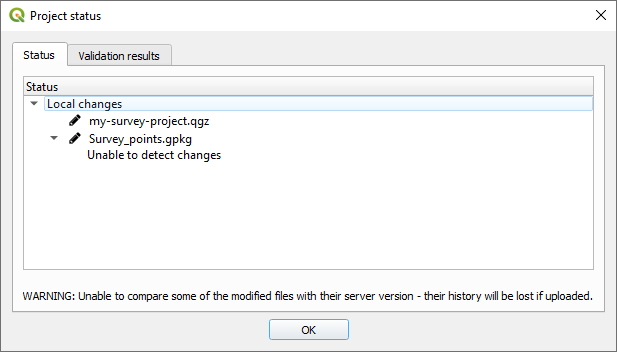
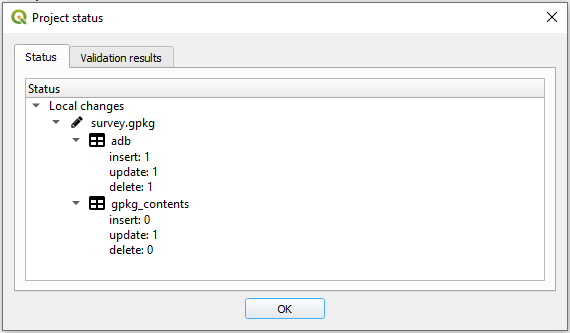
MD review

Changed region(s): [[0.0, 0.0, 1.0, 1.0]]

diff --git a/www/pages/plugin-sync-project.md b/www/pages/plugin-sync-project.md
@@ -4,20 +4,31 @@ title: Synchronising project and data
 permalink: /plugin-sync-project
 ---
 
-You can make changes to your project and data. The changes can be synchronised back to Mergin. The plugin also presents you with an option to see which layers and files have been changed.
+## Status
 
-To synchronise the data back to Mergin:
+It is recommended to run the project status after changing your layers and project.
 
-1. Select the Mergin project status from the toolbar or alternatively right-click on the project from the list on your Mergin projects under the Browser panel in QGIS and select **Status**:
+To see the status of your project and data:
 
-	<p align="center"><img src="../images/qgis-plugin/sync-status.png"></p>
+1. From the Mergin plugin, click on **Status** :
 
-2. A new window should appear listing the pending changes to be synchronised:
+<p align="center"><img src="../images/qgis-plugin/sync-status-toolbar.png"></p>
 
-	<p align="center"><img src="../images/qgis-plugin/sync-status-2.png"></p>
-<p align="center"><img src="../images/qgis-plugin/clone.png"></p>
-    **Note:** In addition to the status of changed files, you can also see detailed changes to your survey layer(s) (GeoPackage) i.e. the number of added, modified and deleted features.
+This will help getting a list of pending changes and also see any warnings or validations of your project. The warnings are related to restructuring of a GeoPackage layer (adding/removing a field or addding/removing a layer in a Geopackage database). Validations can be linked to missing layer or availability of a layer when working offline:
 
-3. Once you confirm the status of changes, you can right-click on the project from the Browser panel under Mergin and select **Synchronize**.
+<p align="center"><img src="../images/qgis-plugin/mergin_plugin_validation_1.png"></p>
+
+<p align="center"><img src="../images/qgis-plugin/mergin_plugin_validation_2.png"></p>
+
+
+## Synchronisation
+
+Once you are happy with the changes to be uploaded/downloaded, you can synchronise your project and data:
+
+1. Click on the **Synchronize** icon from the Mergin toolbar to sync your project and data.
+
+	<p align="center"><img src="../images/qgis-plugin/sync-toolbar.png"></p>
+
+You can select the status and synchronisation options by right-clicking on the Mergin project from the Browser panel too.
 
 **Note:** Synchronising data and project will work in both ways: all your changes will be uploaded to the server and any pending changes from the server edition of your files will be downloaded and appended to your local files. Therefore, when synchronisation process is completed, your local files and the copy of files on the server will be identical.

diff --git a/www/pages/permissions.md b/www/pages/permissions.md
@@ -6,7 +6,7 @@ permalink: /permissions
 
 There are several levels of permissions to control access to your projects in Mergin.
 
-## Public and private project
+## Public and private projects
 
 A private project is a project that only you and those who you choose to share the project with will have access to the files, history and settings. A public project is a project that everyone (including those who are not registered with Mergin) can view the data and project history. They cannot contribute to your public project unless you have shared the project with them with write access (see below for permissions)
 
@@ -20,11 +20,11 @@ There are three levels of permissions when you [share a project](sharing-project
 
 ## Organisation permissions
 
-Similar to project permissions, you can assign permissions to the members of your organisation. By default, all members will be assigned **Read** access. You can change their global permissions under [members' settings](working-with-organisation) or the project level (see above section).
+Similar to project permissions, you can assign permissions to the members of your organisation. By default, all members will be assigned **Read** access. You can change their global permissions under [members' settings](working-with-organisations) or the project level (see above section).
 
 For members in an organisation, you have 4 levels of permissions:
 
-- - **Read**: users will be able to view the projects data and [history](project-details)
-- **Write**: in addition to the **Read** access, users can edit data (adding/removing/updating files and features).
-- **Admin**: in addition to the **Write** access, users with this level of access can delete the project or transfer it to another user or organisation
-- **Owner**:  Similar to the **Admin** permission and in addition access to invoicing and subscription settings.
+- - **Read**: users will be able to view the list of project, projects data and [history](project-details)
+- **Write**: in addition to the **Read** access, users can edit data of projects (adding/removing/updating files and features).
+- **Admin**: in addition to the **Write** access, users with this level of access can delete the project or transfer it to another user or organisation. Admins can also create new projects, and add/remove organisation members
+- **Owner**:  Similar to the **Admin** permission and in addition access to invoicing and subscription settings. 

diff --git a/www/pages/plugin-new-project.md b/www/pages/plugin-new-project.md
@@ -14,11 +14,11 @@ A new window will appear which should give you three options (the last two optio
 
 - **New basic QGIS project**: if you are new to QGIS, this is a good starting point. With this option, a project will be created. Within the project there will be a survey layer (a point layer) and background map (OpenStreetMap).
 
-- **Package current QGIS project**: this option will create a copy of your project and copies all the files to a single folder. The wizard tries to guess each format and offers users three options to package the layer, keep as is (i.e. the layer will be referenced as is in the new project) or ignore (the layer will not be included in the new project). The default for each layer type is as: the web services (e.g. WMTS, XYZ tiles, vector tile layers) will be referenced in the new project as they are. Vector layers will be all written to Geopackage format (each vector in one Geopackage database). Raster layers will be copied as they are. The layers will be referenced in the new project accordingly.
+- **Package current QGIS project**: this option will create a copy of your project and copies all the files to a single folder. The wizard tries to guess each format and offers users three options to package the layer, keep as is (i.e. the layer will be referenced as is in the new project) or ignore (the layer will not be included in the new project). The default for each layer type is as follows: the web services (e.g. WMTS, XYZ tiles, vector tile layers) will be referenced in the new project as they are. Vector layers will be all written to GeoPackage format (each vector in one GeoPackage database). Raster layers will be copied as they are. The layers will be referenced in the new project accordingly.
 
 <p align="center"><img src="../images/qgis-plugin/mergin_plugin_project_wizard_3.png"></p>
 
-- **Use current QGIS project as is**: this is for cases when you have already a stand-alone folder with your projects packaged.
+- **Use current QGIS project as is**: this is for cases when you have already a stand-alone folder with your project packaged.
 
 In the next window, you will be prompted to assign a project name and select a path where your project folder and associated files will be generated (this option is only available for the first two choices):
 

diff --git a/www/pages/project-details.md b/www/pages/project-details.md
@@ -6,19 +6,20 @@ title: Project history and versions
 
 In Mergin, you can see the details of the changes made to the project from different devices or users. Each time you sync the project from your mobile device or from QGIS through the plugin, a new version will be created.
 
-On the Mergin website, you can view what files have been added or removed. If you use Geopackage for your survey, you can also see the list the features which have been added, deleted or updated.
+On the Mergin website, you can view what files have been added or removed. If you use GeoPackage for your survey, you can also see the list the features which have been added, deleted or updated.
 
 To view the project history:
 
-
 - On your project page, select **HISTORY** tab from above the project files
 - In the new tab, you will see:
-  - **Version**: version of project based on number of synchronisation
+  - **Version**: version of project based on number of synchronisations
   - **Created**: time when the version was created
   - **Author**: Mergin username who created the version
-  - The next three columns: Number of files added, deleted and update respectively
+  - The next three columns: Number of files added, deleted and updated respectively
   - **Size**: Size of the project
   - In the last column, you can download the version of project
+
+![history advanced](../images/web/web-history-2.png)
 
 ## Advanced changelog
 
@@ -27,7 +28,7 @@ To see more details of a specific version:
 - A new window will appear. In addition to version and author, you can see:
   - The exact time stamp under **Created**
   - **User Agent** indicates device, operating system and tool used to create the version
-  - If you use Geopackage for your survey, you can see feature added, deleted or updated in a separate table:
+  - If you use GeoPackage for your survey, you can see a summary of features added, deleted or updated for each table (map layer):
 
   ![history](../images/web/web-history.png)
 

diff --git a/www/pages/working-with-organisations.md b/www/pages/working-with-organisations.md
@@ -25,7 +25,7 @@ This section describes how to create an organisation.
 
 <p align="center"><img src="../images/organisations/create-organisation.png"></p>
 
-**Note**: to be able to use organisation features, you need [subscribe to the Team plan](subscriptions) first.
+**Note**: to be able to use organisation features, you need [subscribe to the Team plan](subscriptions) first. You can create an organisation even if you are not subscribed to the Team plan, but until your subscription the storage allocation for your organisation will be 0 MB.
 
 ## Organisation profile
 
@@ -49,4 +49,6 @@ To invite Mergin users to your new organisation:
 - To add more users, under **Find user** section, type the username
 - Click on **Invite**
 
-After the users accept the invitation, they should appear as members. By default, the new members will be assigned **Read** access to all projects within the organisation. You can change the permission level here or at the project level. See [permissions in Mergin](permissions) for more details.
+After the users accept the invitation, they should appear as members. Note that the invitation will expire after certain number of days. If user does not accept the invitation within this period, you will need to resend a new invitation.
+
+By default, the new members will be assigned **Read** access to all projects within the organisation. You can change the permission level here or at the project level. See [permissions in Mergin](permissions) for more details.

diff --git a/www/pages/subscriptions.md b/www/pages/subscriptions.md
@@ -8,6 +8,8 @@ title: Subscriptions and invoicing
 Mergin Service offers a free plan for up to 100 MB data usage. For more storage you can choose one of the
 two plans for users ("Individual" 1GB or "Professional" 10GB storage).
 
+For the details visit [pricing](https://public.cloudmergin.com/pricing) page.
+
 ## Individual and Professional plans
 
 To sign up to Individual or Professional plan:
@@ -39,7 +41,7 @@ To subscribe to the Team plan, you first need to create an organisation:
   - At this time we are not processing reverse-charge VAT payments but will be doing so in the future.
   - If a VAT number is entered, this must be associated with the address you enter below.
   - The address you enter must match the address registered with your payment method (e.g. credit card)
-  - The address entered needs to match the address
+  - The address entered needs to match the VAT registered address
 
 If you'd like to purchase Team plan on annual basis and would like to make bank transfer payment, please contact us (info@lutraconsulting.co.uk) for manual invoicing.
 
@@ -51,7 +53,7 @@ If you want to have On-Premise deployment or looking for other options, please c
 
 To download your invoices and view your payment history:
 
-- Select the **Subscribes** option in the left panel
+- Select the **Subscription** option in the left panel
 - In the new window, on the top, you can choose **HISTORY** or **INVOICES** to access your previous payments and invoices
 
 ## Further information

diff --git a/www/pages/project-advanced.md b/www/pages/project-advanced.md
@@ -8,6 +8,8 @@ To access the advanced project settings:
 
 - Select **SETTINGS** from above the project files
 - At the bottom of the page, you have three options:
-  - Public/private setting: to make your project public or private
-  - **Transfer project**: this option transfers the ownership of your project to another Mergin user or organisation.
-  - **Delete project**: to delete the project and all the data
+  - Public/private setting: to make your project public or private. See [permissions page](../permissions) for more details.
+  - **Transfer project**: this option transfers the ownership of your project to another Mergin user or organisation. An email notification will be sent to user (provided that the notification is active under the user's profile). A notification will be also displayed on the user/organisation dashboard page to accept or reject the project transfer request. The request is valid for 6 days. After that period, if user or organisation does not accept the request, you will remain the owner of the project..
+  - **Delete project**: to delete the project and all the data. Once the project and data are deleted, this action cannot be undone.
+
+![project advanced](../images/web/project-advanced.png)

diff --git a/www/pages/plugin-delete-project.md b/www/pages/plugin-delete-project.md
@@ -6,4 +6,7 @@ permalink: /plugin-delete-project
 
 You can delete a Mergin project either on your PC (locally) or on the Mergin server. To be able to delete the project on the Mergin server, you need to first delete the files locally.
 
-To delete a project, in the Browser panel, right-click on the project and select **Remove locally**. Once the project is deleted from the PC, you can remove it from the server by right-clicking on the project again and selecting **Remove from server**. Warning: this operation is not undoable and all data in the project will be permanently deleted.
+To delete a project, in the Browser panel, right-click on the project and select **Remove locally**.
+This will remove the project from your PC, but the project will be still available on the Mergin server. You will be able to download the project again.
+
+To delete a Mergin project on the server, it must not be available on the local PC (the project has "cloud" icon next to it). In such case, right-clicking on the project name will offer **Remove from server** option - using this option will remove the Mergin project completely. WARNING: this operation is not undoable and the project data are permanently deleted.

diff --git a/www/pages/plugin-download-project.md b/www/pages/plugin-download-project.md
@@ -1,0 +1,27 @@
+---
+layout: page
+title: Downloading an existing project
+permalink: /plugin-download-project
+---
+
+Once you have configured the plugin with your Mergin credentials, you should be able to see the following sections under the Mergin in your QGIS Browser panel:
+
+- **My projects** lists all projects you have created
+- **Shared with me** lists the projects of others shared you (including your organisation projects)
+- **Explore** lists all the public projects
+
+You can select one of the categories and see the listed projects. To download a project:
+
+1. Right-click on the project and select **Download**
+
+	<p align="center"><img src="../images/qgis-plugin/download.png"></p>
+
+2. A new window will appear to save the project under a folder on your PC. Browse to the folder you want to download your project to and click **Select folder**
+
+	<p align="center"><img src="../images/qgis-plugin/download-progress.png"></p>
+
+3. Once the download is completed, you will be presented with an option to open the project in QGIS:
+
+	<p align="center"><img src="../images/qgis-plugin/download-open.png"></p>
+
+Selecting **Yes** will open the project and all the associated layers.

diff --git a/www/pages/plugin-installation.md b/www/pages/plugin-installation.md
@@ -28,12 +28,14 @@ To install Mergin plugin in QGIS:
 
 After installation, you need to configure the plugin by entering your Mergin username and password:
 
-1. From the QGIS Browser panel, right-click on **Mergin** and select **Configure**
-		(alternatively from the Mergin toolbar, select the configure icon )
+1. From the Mergin toolbar, click on **Configure**
+
+<p align="center"><img src="../images/qgis-plugin/configure-toolbar.png"></p>
 
 2. In the new window, type in your username (or email address used for signing up with Mergin) and password
 
 	<p align="center"><img src="../images/qgis-plugin/configure.png"></p>
 
-You can select to store the password. For that you need to have already configured your [QGIS password manager](https://docs.qgis.org/3.10/en/docs/user_manual/auth_system/auth_overview.html?highlight=password#master-password)
-<p align="center"><img src="../images/qgis-plugin/clone.png"></p>
+You can select to store the password. For that you need to have already configured your [QGIS password manager](https://docs.qgis.org/3.16/en/docs/user_manual/auth_system/auth_overview.html?#master-password)
+
+[Back to working with the plugin](../working-with-qgis-plugin)

diff --git a/www/pages/dashboard.md b/www/pages/dashboard.md
@@ -16,13 +16,15 @@ On the left panel, you can access your profile, organisation(s) and subscription
 
 - Under **Projects**:
   - To create a new project, select **+ Create** in front of **Projects**
-  - **My projects** lists all your projects
-  - **Shared with me** lists the projects share with you
+  - **My projects** lists all projects you have created
+  - **Shared with me** lists the projects of others shared you (including your organisation projects)
   - **Explore** lists all the public projects
 
 - Under **Organisations**:
   - To create a new organisation, select **+ Create** in front of **Organisations**
   - To switch to your organisation profile, click on the organisation from the panel
+
+For more information about organisations, visit [working with organisations](working-with-organisations) page.
 
 - Under **Settings**:
   - **Profile** displays your account details, email notification settings and invitations to join organisations.

diff --git a/www/pages/web-create-project.md b/www/pages/web-create-project.md
@@ -14,6 +14,10 @@ There are several methods of creating a new project in Mergin:
   - For **Project owner** select your username or your organisation
   - By default the project is private. You can choose the option to make it **Public**
 
+![history advanced](../images/web/web-create-project.png)
+
+![history advanced](../images/web/web-create-project-2.png)
+
 After creating a new project, you should be directed to the project page. To add files to your project:
 
 - Click on **Drage & drop here to click and select file(s) to upload**
@@ -33,3 +37,5 @@ To clone and existing project:
 - Open the project link in your web browser
 - From the top right of the panel, select **Clone**
 - In the new window, type the project name and select the owner
+
+![history advanced](../images/web/web-clone-project.png)
